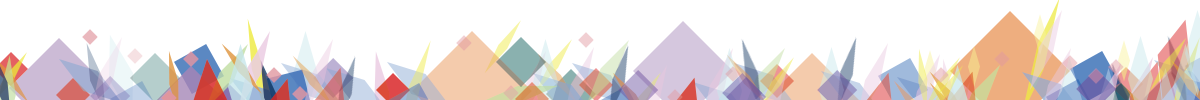
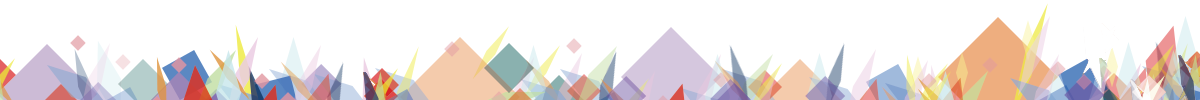
追加

diff --git a/popupHtml/wbCnts/wbCnts72.html b/popupHtml/wbCnts/wbCnts72.html
@@ -3,18 +3,19 @@
 	<head>
 		<meta charset="UTF-8">
 		<title>WebContents</title>
+		<link rel="stylesheet" href="/css/import.css">
 	</head>
-	<body>
+	<body class="popup">
 		<header>
 			<h1>72's&nbsp;portfolio</h1>
 		</header>
 		<main>
 			<section>
-				<ul>
-					<li><img src="/img/popup/popupY_72Top.png" alt="72'sポートフォリオのトップ"></li>
-					<li><img src="/img/popup/popupY_72About.png" alt="自己紹介のページ"></li>
-					<li><img src="/img/popup/popupImg_72s.png" alt="作品ページ"></li>
-					<li><img src="/img/popup/popupY_72Contact.png" alt="コンタクトページ"></li>
+				<ul class="popupImg">
+					<li id="mainImg1"><img src="/img/popup/popupY_72Top.png" alt="72'sポートフォリオのトップ"></li>
+					<li id="mainImg2"><img src="/img/popup/popupY_72About.png" alt="自己紹介のページ"></li>
+					<li id="mainImg3"><img src="/img/popup/popupImg_72s.png" alt="作品ページ"></li>
+					<li id="mainImg4"><img src="/img/popup/popupY_72Contact.png" alt="コンタクトページ"></li>
 				</ul>
 				<p>ポートフォリオサイトです。
 				<br>
@@ -22,13 +23,18 @@
 				<br>
 				黒縁のメガネが好きなので、使っています。
 				</p>
-					<ul>
-						<li><a href=""><img src="/img/serect/web/content11.png"></a></li>
-						<li><a href=""><img src="/img/serect/web/content11A.png"></a></li>
-						<li><a href=""><img src="/img/serect/web/content11W.png"></a></li>
-						<li><a href=""><img src="/img/serect/web/content11C.png"></a></li>
+				<ul class="tab content_popupImg">
+					<li><img src="/img/serect/web/content11.png" alt="72'sポートフォリオのトップ72'sポートフォリオのトップ" width="100" height="100"></li>
+					<li><img src="/img/serect/web/content11A.png" alt="自己紹介のページ" width="100" height="100"></li>
+					<li><img src="/img/serect/web/content11W.png" alt="作品ページ" width="100" height="100"></li>
+					<li><img src="/img/serect/web/content11C.png" alt="コンタクトページ" width="100" height="100"></li>
 					</ul>
 			</section>
 		</main>
+		<script type="text/javascript" src="/js/jquery-1.10.1.min.js"></script>
+		<script type="text/javascript" src="/js/jquery.easing.1.3.min.js"></script>
+		<script type="text/javascript" src="/js/jquery.tab.min.js"></script>
+		<script type="text/javascript" src="/js/jquery.dataExtend.min.js"></script>
+		<script type="text/javascript" src="/js/common.js"></script>
 	</body>
 </html>

diff --git a/css/import.css b/css/import.css
@@ -176,7 +176,7 @@ main {
   min-width: 1200px;
   overflow: hidden;
   height: 7000px;
-  background-image: url('../img/background/parllax_footer.png?1436488351');
+  background-image: url('../img/background/parllax_footer.png?1437092607');
   background-repeat: repeat-x;
   background-position: center bottom;
 }
@@ -438,6 +438,7 @@ main nav .fb a:hover {
   color: #ffffff;
 }
 
+/***      footer       ***/
 footer {
   background-color: #ffb100;
   top: 8000px;
@@ -447,4 +448,41 @@ footer {
 }
 footer p {
   margin-top: 40px;
+}
+
+/***      popup       ***/
+.popup {
+  width: 100%;
+  height: 376px;
+}
+.popup header {
+  background: none;
+  height: 50px;
+}
+.popup h1 {
+  padding-top: 0px;
+  margin-left: 0px;
+  text-align: center;
+}
+.popup li {
+  display: inline-block;
+}
+.popup p {
+  display: inline-block;
+  width: 50%;
+}
+.popup .popupImg {
+  display: inline-block;
+}
+.popup #mainImg1,
+.popup #mainImg2,
+.popup #mainImg3,
+.popup #mainImg4 {
+  display: none;
+}
+.popup #mainImg1.on,
+.popup #mainImg2.on,
+.popup #mainImg3.on,
+.popup #mainImg4.on {
+  display: block;
 }

diff --git a/css/common.css b/css/common.css
@@ -97,7 +97,7 @@ main {
   min-width: 1200px;
   overflow: hidden;
   height: 7000px;
-  background-image: url('../img/background/parllax_footer.png?1436488351');
+  background-image: url('../img/background/parllax_footer.png?1437092607');
   background-repeat: repeat-x;
   background-position: center bottom;
 }
@@ -359,6 +359,7 @@ main nav .fb a:hover {
   color: #ffffff;
 }
 
+/***      footer       ***/
 footer {
   background-color: #ffb100;
   top: 8000px;
@@ -368,4 +369,41 @@ footer {
 }
 footer p {
   margin-top: 40px;
+}
+
+/***      popup       ***/
+.popup {
+  width: 100%;
+  height: 376px;
+}
+.popup header {
+  background: none;
+  height: 50px;
+}
+.popup h1 {
+  padding-top: 0px;
+  margin-left: 0px;
+  text-align: center;
+}
+.popup li {
+  display: inline-block;
+}
+.popup p {
+  display: inline-block;
+  width: 50%;
+}
+.popup .popupImg {
+  display: inline-block;
+}
+.popup #mainImg1,
+.popup #mainImg2,
+.popup #mainImg3,
+.popup #mainImg4 {
+  display: none;
+}
+.popup #mainImg1.on,
+.popup #mainImg2.on,
+.popup #mainImg3.on,
+.popup #mainImg4.on {
+  display: block;
 }

diff --git a/sass/common.scss b/sass/common.scss
@@ -402,6 +402,8 @@ main nav {
 	}
 }
 
+/***      footer       ***/
+
 footer {
 	background-color: #ffb100 ;
 	top: 8000px ;
@@ -410,5 +412,48 @@ footer {
 	overflow: hidden ;
 	p {
 		margin-top: 40px ;
+	}
+}
+
+
+/***      popup       ***/
+
+.popup {
+	width: 100% ;
+	height: 376px ;
+	
+	header {
+		background: none ;
+		height: 50px ; ;
+	}
+	
+	h1 {
+		padding-top: 0px ;
+		margin-left: 0px ;
+		text-align: center ;
+}
+	
+	li {
+		display: inline-block ;
+	}
+	
+	p {
+		display: inline-block ;
+		width: 50% ;
+	}
+	
+	.popupImg {
+		display: inline-block ;
+	}
+	
+	#mainImg1,
+	#mainImg2,
+	#mainImg3,
+	#mainImg4 {
+		display: none ;
+		
+		&.on {
+			display: block ;
+		}
 	}
 }

diff --git a/js/common.js b/js/common.js
@@ -1,5 +1,8 @@
 
-$(".colorbox").colorbox({iframe:true, width:"80%", height:"80%"});
+var $colorbox = $(".colorbox");
+if($colorbox.size() > 0) {
+	$colorbox.colorbox({iframe:true, width:"80%", height:"80%"});
+}
 
 
 $('.tab').dataExtend('tab');

diff --git a/popupHtml/grphCnts/grphCntsB.html b/popupHtml/grphCnts/grphCntsB.html
@@ -3,6 +3,7 @@
 	<head>
 		<meta charset="UTF-8">
 		<title>BusinessCard</title>
+		<link rel="stylesheet" href="/popupHtml/css/stlye.css">
 	</head>
 	<body>
 		<header>

diff --git a/popupHtml/grphCnts/grphCntsNC.html b/popupHtml/grphCnts/grphCntsNC.html
@@ -3,6 +3,7 @@
 	<head>
 		<meta charset="UTF-8">
 		<title>NewYearCard</title>
+		<link rel="stylesheet" href="/popupHtml/css/stlye.css">
 	</head>
 	<body>
 		<header>

diff --git a/popupHtml/wbCnts/wbCnts.html b/popupHtml/wbCnts/wbCnts.html
@@ -3,6 +3,7 @@
 	<head>
 		<meta charset="UTF-8">
 		<title>WebContents</title>
+		<link rel="stylesheet" href="/popupHtml/css/stlye.css">
 	</head>
 	<body>
 		<header>

diff --git a/popupHtml/wbCnts/wbCntsF.html b/popupHtml/wbCnts/wbCntsF.html
@@ -3,6 +3,7 @@
 	<head>
 		<meta charset="UTF-8">
 		<title>WebContents</title>
+		<link rel="stylesheet" href="/popupHtml/css/stlye.css">
 	</head>
 	<body>
 		<header>

diff --git a/popupHtml/wbCnts/wbCntsS.html b/popupHtml/wbCnts/wbCntsS.html
@@ -3,6 +3,7 @@
 	<head>
 		<meta charset="UTF-8">
 		<title>WebContents</title>
+		<link rel="stylesheet" href="/popupHtml/css/stlye.css">
 	</head>
 	<body>
 		<header>

diff --git a/popupHtml/grphCnts/grphCntsC.html b/popupHtml/grphCnts/grphCntsC.html
@@ -3,6 +3,7 @@
 	<head>
 		<meta charset="UTF-8">
 		<title>Callender</title>
+		<link rel="stylesheet" href="/popupHtml/css/stlye.css">
 	</head>
 	<body>
 		<header>

diff --git a/popupHtml/grphCnts/grphCntsM.html b/popupHtml/grphCnts/grphCntsM.html
@@ -3,6 +3,7 @@
 	<head>
 		<meta charset="UTF-8">
 		<title>Magazine</title>
+		<link rel="stylesheet" href="/popupHtml/css/stlye.css">
 	</head>
 	<body>
 		<header>
